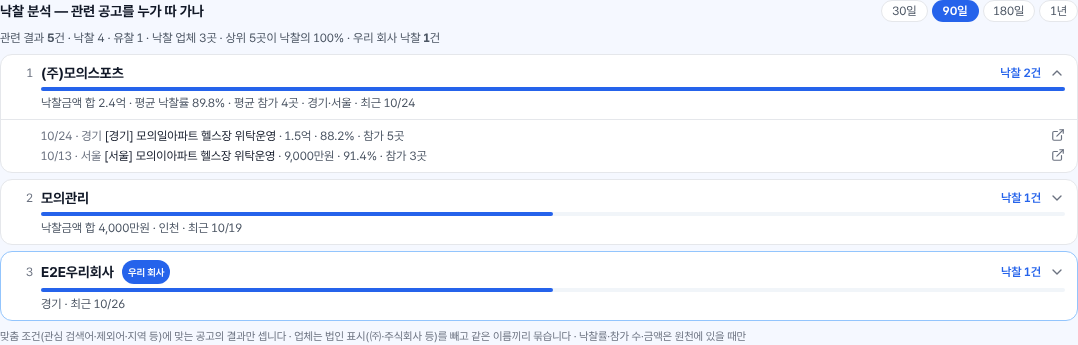
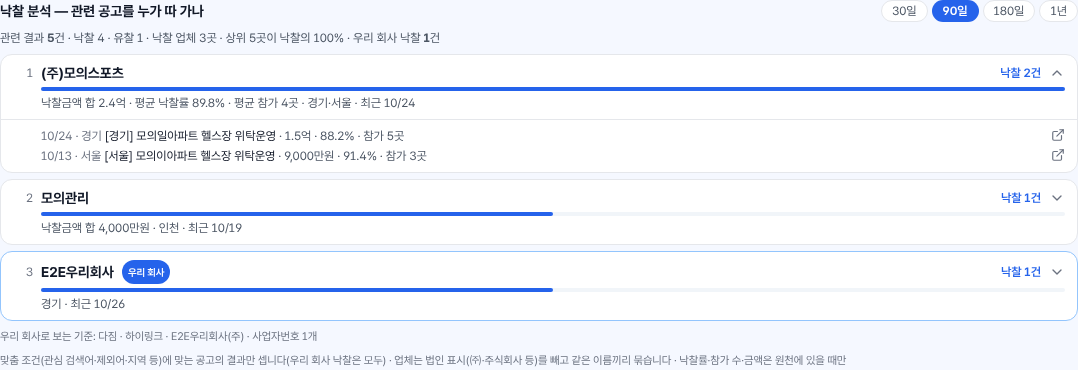
[배포확인요청][로컬요청] 227차 판정 빈 곳 3건(정보기기·보안관제 위탁 / 시설물조성 공사) + 낙찰 분석 하이링크 낙찰 0 — 우리 회사 판정 보완
로컬 10/28 11:15 '판정 빈 곳 3건(191차 규칙)' · 11:45 '하이링크 낙찰 0'.
- src/lib/sales/collectors/procurement.ts (matchFit):
  · 시설 낱말이 약한 낱말(WEAK)뿐이면 아파트·주민 맥락(APT_CONTEXT)이 있어야 다짐 — 위탁운영이 강한 낱말로 잡혀 '국회도서관 정보기기 위탁운영'이 맥락 확인 없이 다짐이 되던 빈틈
  · 맥락이 있어도 위탁 대상이 정보기기·전산·관제·유지관리·콜센터·서버·홈페이지(IT_TARGET)면 다짐 아님
  · BUILD_RE 에 조성·정비·포장·토목·세굴 · 업무 구분(분류)이 공사면 운영·위탁 낱말 없을 때 다짐 아님
  · 모두 dropped(까닭 문장)에 남아 refitNotices(수집기 실행·플랫폼 다시 판정)가 저장된 다짐 판정을 낮춤
- src/lib/sales/bidTasks.ts: ourIdentity 가 이름별 사업자번호·표시 이름·사업자번호 없는 회사 프로필을 돌려줌 · isOurs = 사업자번호가 우리 것이면 우리 회사, 이름이 같으면 우리 회사(단 그 이름의 사업자번호를 알고 있고 낙찰 사업자번호가 다르면 남의 회사) — 전에는 우리 사업자번호가 하나라도 있으면 사업자번호만 봐서 사업자번호를 안 넣은 회사 프로필의 낙찰을 못 찾음(입찰 결과 자동 판정도 같은 함수)
- src/lib/sales/awardStats.ts: 우리 회사 낙찰은 맞춤 조건 밖이어도 셈 · 우리 줄은 같은 이름의 남의 회사와 따로 묶음 · me(이름들·사업자번호 개수·사업자번호 없는 회사, 번호 값은 안 보냄)
- src/components/sales/AwardStats.tsx: '우리 회사로 보는 기준' 한 줄 + 사업자번호 없는 회사 안내 · 아래 설명에 '우리 회사 낙찰은 모두'
- 226차 후속 6448d55 바로잡음: 그 커밋 제목의 '낙찰 분석 탭 정렬 숨김'은 실제로는 2c39418(226차)에 들어 있었음
시험: tests/api/sales-fit-227 2 · sales-awards-497 +1(227차 우리 회사) · 영업 관련 API 148 통과 · E2E 낙찰 분석(기준 줄, 화면 579~580)·앱 영업 정리 · typecheck·lint·build

Claude-Session: https://claude.ai/code/session_016D6QaBbBuSZXAeHKp3DqaZ

diff --git a/src/lib/sales/awardStats.ts b/src/lib/sales/awardStats.ts
@@ -9,7 +9,7 @@ import { sidoIn } from './region';
 
 /**
  * 226차 #497 R21-4(21라인 레퍼런스 '낙찰 결과·낙찰가·경쟁업체 분석'): 관련 공고(맞춤 조건 — 업종 적합·관심 검색어·지역 등)의 낙찰 결과를 업체별로 묶음.
- * 업체 = 법인 표시(㈜·주식회사 등)를 뺀 이름 · 낙찰 건수·낙찰금액 합·평균 낙찰률·평균 참가 업체·주 지역·최근 낙찰 · 우리 회사(회사 정보 이름·사업자번호) · 유찰(낙찰자 없음).
+ * 업체 = 법인 표시(㈜·주식회사 등)를 뺀 이름 · 낙찰 건수·낙찰금액 합·평균 낙찰률·평균 참가 업체·주 지역·최근 낙찰 · 우리 회사(회사 정보 이름·사업자번호 — 맞춤 조건 밖 낙찰도 셈) · 유찰(낙찰자 없음).
  * 원천 = 수집한 결과(K-apt 입찰결과·나라장터 낙찰정보 등) — 원천에 없는 칸(낙찰률·참가 수·금액)은 비움(평균에서 뺌).
  */
 export const AWARD_DAYS = [30, 90, 180, 365] as const;
@@ -32,15 +32,15 @@ export async function awardStats(u: SessionUser, days0: number) {
   const groups = new Map<string, { names: Map<string, number>; latest: Map<string, string>; ours: boolean; recs: Rec[] }>();
   let total = 0, failed = 0;
   for (const { id, row: r } of rows) {
-    if (!passPrefs(r, p).ok) continue;
-    total++;
     const name = String(r.winner_name ?? r.award_company ?? r.successful_bidder ?? '').trim();
+    const mine = !!name && isOurs({ name, biz: r.winner_biz_no }, me);
+    if (!mine && !passPrefs(r, p).ok) continue; // 227차: 우리 회사 낙찰은 맞춤 조건(지역·검색어 등) 밖이어도 셈
+    total++;
     if (!name) { failed++; continue; }
-    const key = corpName(name) || name.toLowerCase();
-    const g = groups.get(key) ?? { names: new Map<string, number>(), latest: new Map<string, string>(), ours: false, recs: [] as Rec[] }; groups.set(key, g);
+    const key = (mine ? 'ours:' : '') + (corpName(name) || name.toLowerCase()); // 같은 이름의 다른 회사(사업자번호 다름)와 섞지 않음
+    const g = groups.get(key) ?? { names: new Map<string, number>(), latest: new Map<string, string>(), ours: mine, recs: [] as Rec[] }; groups.set(key, g);
     const day = String(r.award_date ?? r.posted_date ?? '').slice(0, 10);
     g.names.set(name, (g.names.get(name) ?? 0) + 1); if (day > (g.latest.get(name) ?? '')) g.latest.set(name, day);
-    if (!g.ours && isOurs({ name, biz: r.winner_biz_no }, me)) g.ours = true;
     const rate = num(r.winner_rate);
     g.recs.push({ id: String(r.id ?? id), title: String(r.title ?? '').trim(), date: day || null, amount: num(r.winner_amount ?? r.award_amount),
       rate: rate != null && rate <= 200 ? rate : null, bidders: num(r.bidders), region: regionOf(r), issuer: String(r.issuer ?? r.demand_agency ?? r.facility_name ?? '').trim() || null, url: String(r.source_url ?? '').trim() || null });
@@ -56,5 +56,6 @@ export async function awardStats(u: SessionUser, days0: number) {
   const awarded = total - failed;
   const shown = list.slice(0, 30); for (const x of list) if (x.ours && !shown.includes(x)) shown.push(x); // 우리 회사는 30위 밖이어도 보임
   return { days, since, total, awarded, failed, companies: list.length, ours: list.filter((x) => x.ours).reduce((s, x) => s + x.wins, 0),
-    top5Share: awarded ? Math.round((list.slice(0, 5).reduce((s, x) => s + x.wins, 0) / awarded) * 100) : 0, items: shown };
+    top5Share: awarded ? Math.round((list.slice(0, 5).reduce((s, x) => s + x.wins, 0) / awarded) * 100) : 0, items: shown,
+    me: { names: me.labels, biz: me.biz.size, noBiz: me.noBiz } }; // 화면 안내: 무엇을 우리 회사로 보는지(사업자번호 값은 안 보냄)
 }

diff --git a/src/components/sales/AwardStats.tsx b/src/components/sales/AwardStats.tsx
@@ -9,7 +9,7 @@ import { ErrorBox, Skeleton, cx } from '@/components/ui';
 
 type Rec = { id: string; title: string; date: string | null; amount: number | null; rate: number | null; bidders: number | null; region: string | null; issuer: string | null; url: string | null };
 type Co = { key: string; rank: number; name: string; ours: boolean; wins: number; amount: number | null; rate: number | null; bidders: number | null; regions: string[]; last: string | null; recent: Rec[] };
-type Stats = { days: number; total: number; awarded: number; failed: number; companies: number; ours: number; top5Share: number; items: Co[] };
+type Stats = { days: number; total: number; awarded: number; failed: number; companies: number; ours: number; top5Share: number; items: Co[]; me?: { names: string[]; biz: number; noBiz: string[] } };
 const C = '#2563EB'; // 영업 색(SalesSrc 와 같음)
 const DAYS: [string, string][] = [['30', '30일'], ['90', '90일'], ['180', '180일'], ['365', '1년']];
 const won = (n: number | null) => (n == null ? null : n >= 1e8 ? `${(n / 1e8).toFixed(1).replace(/\.0$/, '')}억` : n >= 1e4 ? `${Math.round(n / 1e4).toLocaleString('ko-KR')}만원` : `${n.toLocaleString('ko-KR')}원`);
@@ -43,7 +43,9 @@ export function AwardStats({ onOpen }: { onOpen: (id: string) => void }) {
                   {r.url && <a href={r.url} target="_blank" rel="noopener noreferrer" className="shrink-0 text-ink-3 hover:text-ink" aria-label="원문 보기"><ExternalLink className="size-3.5" /></a>}</li>))}
                 {x.wins > x.recent.length && <li className="text-ink-3">그 밖 {x.wins - x.recent.length}건</li>}</ul>}
             </li>); })}</ol>}
-        <p className="text-[11px] text-ink-3">맞춤 조건(관심 검색어·제외어·지역 등)에 맞는 공고의 결과만 셉니다 · 업체는 법인 표시(㈜·주식회사 등)를 빼고 같은 이름끼리 묶습니다 · 낙찰률·참가 수·금액은 원천에 있을 때만</p>
+        {data.me && <p className="text-[11px] text-ink-3" data-testid="award-me">우리 회사로 보는 기준: {data.me.names.length ? data.me.names.join(' · ') : '이름 없음'}{data.me.biz ? ` · 사업자번호 ${data.me.biz}개` : ''}
+          {data.me.noBiz.length > 0 && <span className="text-amber-700"> — {data.me.noBiz.map((n) => `'${n}'`).join(' · ')} 회사 정보에 사업자번호가 없어 이름으로만 찾습니다(관리 › 회사 정보·디자인에 넣으면 같은 이름의 다른 회사와 구분)</span>}</p>}
+        <p className="text-[11px] text-ink-3">맞춤 조건(관심 검색어·제외어·지역 등)에 맞는 공고의 결과만 셉니다(우리 회사 낙찰은 모두) · 업체는 법인 표시(㈜·주식회사 등)를 빼고 같은 이름끼리 묶습니다 · 낙찰률·참가 수·금액은 원천에 있을 때만</p>
       </>}
     </div>
   );

diff --git a/docs/handoff/LOCAL_LOG.md b/docs/handoff/LOCAL_LOG.md
@@ -609,6 +609,7 @@
 - 2026-10-28 [클라우드] [배포확인요청][로컬요청] 224차 — #457 관심 사업 검색어 추천: 영업 › 데이터 설정 › 맞춤 상자 안 '관심 검색어 추천' — 진행한 공고와 [대상 아님] 공고를 비교해 넣을 관심 검색어·넣을 제외어·뺄 관심 검색어를 냄([추천 받기]는 관리자, AI는 회사 월 AI 예산 안, 다 썼거나 실패하면 AI 없이 낱말 세기). 낱말마다 '진행 n · 대상 아님 m · 지난 30일 더 보일/가려질 공고 k'는 서버가 셈, 진행한 공고도 가리는 제외어는 '위험' 표시·미리 안 고름, [고른 것 반영] → 맞춤 칸에 들어감. 매달 1일 09시 뒤 AI 없이 정기 추천 → 추천이 있으면 관리자 알림(관심 검색어 추천 n개 · 놓친 공고 후보 m건). 마이그레이션 219(추가형). **로컬 요청:** ① 운영 배포·마이그레이션 219 적용 확인 ② 운영 영업 › 데이터 설정에서 [추천 받기] 한 번 눌러 추천 낱말·숫자가 말이 되는지(진행한 공고와 대상 아님 공고가 적으면 '더 정리하면 정확해집니다' 안내가 맞는지) 봐 주세요 — AI 비용이 1회 들어갑니다(회사 월 AI 예산 안). 고른 것 반영은 대표 확인 뒤에만.
 - 2026-10-28 [클라우드] [배포확인요청][로컬요청] 225차 — #210 승인함 첫 표시 느림(10/24 '390폭 약 14초'): 원인은 카드마다 '넘겨 보기' 사진을 모두 원본 크기로 바로 받고, 접힌 묶음(수정 요청·보류 등) 안 카드 사진까지 처음에 받던 것(서버 응답은 0.1초로 문제 아님). 사진은 화면 가까이 올 때 받고, 접힌 묶음 안 카드는 펼칠 때 시안을 그리게 고침(글·단추는 그대로). 시험 서버 재현(글 144건·사진 4장씩): 사진 472장·243MB → 20장·10.8MB, 내려받기 끝 6.5초 → 1.6초. 함께 흔들리던 시험 2개(메일 보관함·마감 선택 창 위치)를 '기다렸다가 확인'으로 고침. **로컬 요청:** 운영 승인함(/s/marketing/approvals)을 휴대폰 폭(390)으로 열어 ① 첫 표시까지 걸리는 시간 ② '수정 요청·보류' 묶음을 펼치면 사진이 그때 뜨는지 ③ 카드 넘겨 보기 둘째 장부터 넘길 때 사진이 뜨는지 봐 주세요.
 - 2026-10-28 [클라우드] [배포확인요청][로컬요청] 226차 — #497 R21-4 낙찰 분석(21라인 레퍼런스 '낙찰 결과·경쟁업체 분석'): 영업기회 › 입찰 칩 줄 끝 [낙찰 분석] — 관련 공고(맞춤 조건)의 낙찰 결과를 업체별로 묶어 낙찰 건수·금액 합·평균 낙찰률·평균 참가 업체·주 지역·최근 낙찰일, 펼치면 최근 낙찰 5건(누르면 공고 상세), 우리 회사(회사 정보 이름·사업자번호)는 '우리 회사' 표시, 기간 30일~1년. **로컬 요청:** 운영 영업기회 › 입찰 › [낙찰 분석]을 90일·1년으로 열어 ① 업체 묶음이 맞는지(같은 회사가 둘로 나뉘거나 다른 회사가 합쳐지지 않았는지) ② 낙찰금액·낙찰률이 원문과 맞는지 1~2건 ③ 우리 회사(다짐·하이링크) 낙찰이 '우리 회사'로 잡히는지 봐 주세요 — 자료가 0건이면 K-apt 입찰결과 수집기 상태도 함께 알려 주세요.
+- 2026-10-28 [클라우드] [배포확인요청][로컬요청] 227차 — 로컬 11:15 판정 빈 곳 3건 · 11:45 '하이링크 낙찰 0': ① 국회도서관 정보기기 위탁운영(R26BK01791097-000)·보안관제 위탁운영(R26BD00288066) → 대상 아님(시설 낱말이 '도서관'뿐이고 아파트·주민 맥락 없음 / 맥락이 있어도 위탁 대상이 정보기기·관제·유지관리면 다짐 아님) ② 의성위천파크골프장시설물조성(세굴방지공)(R26BK01792413-000) → 대상 아님(공사 낱말에 조성·정비·포장·토목·세굴 추가 + 업무 구분 공사) ③ 작은도서관·국민체육센터·파크골프장 위탁운영은 그대로 다짐 ④ 낙찰 분석: 우리 회사 낙찰은 맞춤 조건 밖이어도 셈 + 사업자번호 없는 회사 정보는 이름으로 찾음(같은 이름·다른 사업자번호는 남의 회사) + 화면 아래 '우리 회사로 보는 기준' 한 줄. **로컬 요청:** 배포 뒤 ① 플랫폼 운영자 계정으로 다시 판정(POST /api/platform/sales-notices {"refit":true})을 한 번 돌리거나 다음 K-apt 입찰공고 수집기 실행 요약('다시 판정으로 내림 n건·사업 바꿈 n건')을 보고 숫자를 알려 주시고, 세 번호를 공고 조회(GET …?no=번호)로 열어 '지금 규칙'이 관련 아님(까닭 문장)인지 봐 주세요 ② 영업기회 › 입찰 › [낙찰 분석] 아래 '우리 회사로 보는 기준'에 하이링크가 보이는지·사업자번호 없는 회사 안내가 뜨는지·1년 보기에서 하이링크 낙찰이 잡히는지 — 여전히 0이면 하이링크가 실제로 낙찰받은 공고 번호 1건을 알려 주세요.
 - 2026-10-26 [클라우드] [배포확인요청] 176차 — 171·173차 CI 빨간불 원인 2가지 바로잡음: ① 캘린더 종일 칸 설정이 창 폭이 640 을 넘나들 때 PC 값(꺼짐)을 휴대폰 키에 덮어쓰던 실제 버그(휴대폰 보기 종일 줄이 꺼진 채 시작) → 사람이 바꿀 때만 저장·폭 바뀌면 다시 읽음 ② 실기기 83 시트 버튼 줄 1px 여유. 로컬 확인 요청: 없음(운영 화면 변화는 'PC 창을 좁혔다 넓혀도 휴대폰 종일 줄 설정이 안 꺼짐'뿐). CI 결과는 클라우드가 확인.
 - 2026-10-25 [클라우드] [배포확인요청] 149차 — #599 새 고객사 시뮬레이션(시험 서버 E2E: 가입 → 온보딩 → 첫 화면 → 공간 켜기 → 데이터 설정 → 마케팅 → 자동 제작 → 사용량 → 알림 → API 8개, 캡처 281~295) 명세 §3 결과: 내부 이름 0건 · 키 없는 수집기 7개 = '신청 필요'+[방법 보기] · '채널 연결 3단계' · 첫날 알림 0건 · 사용량 원화만. #602 공통 함수 customerScope(seesInternals = 슈퍼관리자 또는 내부 테넌트): 수집기·사용량·자동 제작·마케팅 홈·AI 예산 응답에서 원인·원가·달러·모델·외부 서비스 이름·원천 주소·공용 실행 기록 제거 + 고객 문구 사전 + 금지 낱말 자동 검사(API 5/5·E2E 발견 0건). P0 버그 수정: 새 회사 첫 로그인·온보딩 끝 직후 흰 화면+로고(수화 오류로 실행 애니메이션 덮개가 안 걷힘) → Modal 마운트 뒤 포털·IntroGuard·CSS 안전장치. 마이그레이션 없음(200 그대로). 로컬 요청: ① 운영에서 새 회사 가입(대표 결정 범위 안에서) → 확인 링크 → 첫 화면이 흰 화면 없이 뜨는지, 온보딩 [완료] 직후도 ② 고객사 계정으로 영업 › 데이터 설정(상태 칩 4가지·[방법 보기]·키 이름/주소/오류 원문 없음)·마케팅 › 자동 제작(글 모델 등급 이름만)·관리 › 사용량(원화·%·횟수만) ③ 내부 테넌트(우리 회사)에서는 예전처럼 전부 보이는지 ④ 공개 요금표(/api/public/ai-plans·소개 사이트)의 단가 표시는 그대로 두었음 — 대표 결정 필요하면 알려 주세요.
 - 2026-10-25 [클라우드] [배포확인요청] 148차 — #592 ② 휴대폰 캘린더 주 보기 밀도(명세 §2): 시간 칸 주 40/3일 48/일 64 → 한 화면 약 15시간, 블록 11px 중간 굵기·줄 수 블록 높이만큼, 좁은 블록 앞머리 [태그] 떼기(부재 종류 유지), 종일 줄 기본 켬(2줄 + '+n개' → 그날 목록), 미팅 단추 둥근 48px·아래로 밀면 숨김, 휴대폰 머리줄 한 줄(월▾·보기 전환·‹›·오늘·+). 견적서 공급자 긴 주소 두 줄(로컬 15:45). 마이그레이션 없음(200 그대로). 로컬 요청: ① 대표 휴대폰(390~412px) 주 보기 — 08~22시가 한 화면에, [다짐 문의] 업무가 내용부터 2줄로, 종일 칩이 날짜 머리 아래 바로, + 단추가 칸을 안 가리고 아래로 밀면 숨는지(명세 §3 2~5) ② 3일·일 보기 칸 높이·일 보기는 제목 그대로 ③ 견적서 미리보기(hilink) 공급자 주소 두 줄 ④ 명세 §3 1·6(구글 11건·중복 정리)은 가져오기를 대표가 취소(#604)해 하지 않음 — 워크인에 직접 넣은 일정만 보임.

diff --git a/TEST_REPORT.md b/TEST_REPORT.md
@@ -1,7 +1,9 @@
 # 시험 보고서
 
 최종 실행: 2026-10-13 (UTC) · 클라우드 개발 환경 (Node 22, PostgreSQL 16, Chromium 141)
-요약 (2026-10-28 226차: #497 R21-4 낙찰 분석(21라인 레퍼런스 '낙찰 결과·낙찰가·경쟁업체 분석'): 영업기회 › 입찰 칩 줄에 [낙찰 분석] — 관련 공고(맞춤 조건: 업종 적합·관심 검색어·제외어·지역 등)의 낙찰 결과를 업체별로 묶음(법인 표시 ㈜·주식회사 등을 빼고 같은 이름끼리, 표시 이름은 가장 많이 쓴·최근 이름) · 업체마다 낙찰 건수·막대·낙찰금액 합·평균 낙찰률·평균 참가 업체·주 지역 2곳·최근 낙찰일(원천에 없는 칸은 평균에서 뺌) · 펼치면 최근 낙찰 5건(누르면 공고 상세, 원문 링크) · 우리 회사(회사 정보 이름·사업자번호) 파란 '우리 회사' 표시(30위 밖이어도 보임) · 머리 줄 관련 결과·낙찰·유찰·업체 수·상위 5곳 비중·우리 회사 낙찰 · 기간 30일·90일·180일·1년(주소 ?ad=) · 결과가 없으면 수집기 안내 · 영업 공간 밖 404·입찰 안 쓰는 회사 403 · 이 탭에서는 정렬 숨김
+요약 (2026-10-28 227차: 로컬 10/28 11:15 '판정 빈 곳 3건' · 11:45 '하이링크 낙찰 0' 반영 — ① 업종 판정(191차 규칙 보강): 시설 낱말이 약한 낱말(도서관·카페·골프 등)뿐이면 아파트·주민 맥락이 있어야 다짐, 맥락이 있어도 위탁 대상이 정보기기·전산·관제·유지관리·콜센터·서버·홈페이지면 다짐 아님(국회도서관 정보기기 위탁운영·보안관제 위탁운영 → 대상 아님 / 작은도서관·국민체육센터·파크골프장 위탁운영은 그대로 다짐) · 공사 낱말에 조성·정비·포장·토목·세굴 추가 + 업무 구분(분류)이 공사면 운영·위탁 낱말이 없을 때 다짐 아님(파크골프장 시설물조성(세굴방지공) → 대상 아님) · 이미 저장된 공고는 다음 K-apt 수집기 실행이나 플랫폼 운영 다시 판정(POST /api/platform/sales-notices)이 판정을 낮추고 까닭 문장을 남김 ② 낙찰 분석 '우리 회사': 우리 회사 낙찰은 맞춤 조건(지역·검색어·업종) 밖이어도 셈 · 회사 정보에 사업자번호가 없는 회사는 이름으로 찾음(전에는 우리 사업자번호가 하나라도 있으면 사업자번호만 봐서 못 찾음) · 이름이 같아도 그 이름의 사업자번호를 알고 있고 낙찰 사업자번호가 다르면 남의 회사로 따로 묶음 — 입찰 결과 자동 판정(낙찰/미낙찰)도 같은 규칙 · 화면 아래 '우리 회사로 보는 기준'(이름들 · 사업자번호 개수 · 사업자번호 없는 회사 안내, 번호 값은 안 보냄) ③ 226차 후속 자동 검사 1582·1584·1585번 고침(6448d55: 칩 목록 시험에 [낙찰 분석], 정기 추천 시험이 실제 수집 원천에 닿지 않게) — 6448d55 커밋 제목의 '낙찰 분석 탭 정렬 숨김'은 실제로는 226차 2c39418에 들어 있었음(바로잡음)
+시험: API sales-fit-227 2건(지금 규칙 조회 · 다시 판정 낮춤 3·바뀜 0·올림 0 → 두 번째 0) · sales-awards-497 4건(227차 우리 회사: 사업자번호 없는 회사 이름으로·업종 무관 제목·지역 조건 밖·같은 이름 다른 사업자번호) · sales-bid-split 포함 영업 관련 API 148건 통과 · E2E '226차 낙찰 분석'(기준 안내 줄, 화면 579~580 새로 찍음)·'앱 영업 정리' · typecheck·lint·build
+확인 못함: 운영 공고에 다시 판정을 돌린 실제 숫자(클라우드는 운영 자료를 못 봄) · 보안관제 공고(R26BD00288066)의 제목 앞부분(로컬 메시지에 '…'로 줄어 있어 '국회도서관 …'으로 가정해 시험) · 운영 하이링크 회사 정보에 사업자번호가 있는지 · 하이링크 낙찰이 수집 원천(K-apt·나라장터)에 실제로 있는지) · 앞선 요약 (2026-10-28 226차: #497 R21-4 낙찰 분석(21라인 레퍼런스 '낙찰 결과·낙찰가·경쟁업체 분석'): 영업기회 › 입찰 칩 줄에 [낙찰 분석] — 관련 공고(맞춤 조건: 업종 적합·관심 검색어·제외어·지역 등)의 낙찰 결과를 업체별로 묶음(법인 표시 ㈜·주식회사 등을 빼고 같은 이름끼리, 표시 이름은 가장 많이 쓴·최근 이름) · 업체마다 낙찰 건수·막대·낙찰금액 합·평균 낙찰률·평균 참가 업체·주 지역 2곳·최근 낙찰일(원천에 없는 칸은 평균에서 뺌) · 펼치면 최근 낙찰 5건(누르면 공고 상세, 원문 링크) · 우리 회사(회사 정보 이름·사업자번호) 파란 '우리 회사' 표시(30위 밖이어도 보임) · 머리 줄 관련 결과·낙찰·유찰·업체 수·상위 5곳 비중·우리 회사 낙찰 · 기간 30일·90일·180일·1년(주소 ?ad=) · 결과가 없으면 수집기 안내 · 영업 공간 밖 404·입찰 안 쓰는 회사 403 · 이 탭에서는 정렬 숨김
 시험: API sales-awards-497 3건(업체 묶음·금액·낙찰률·참가·지역·최근 순·우리 회사·유찰·업종 무관 제외 / 기간·제외어·이상한 기간 / 권한) · E2E '226차 #497 낙찰 분석'(화면 579~580, 390 폭 넘침 없음, 최근 낙찰 → 공고 상세) · typecheck·lint·build
 확인 못함: 운영 실제 낙찰 자료로 본 화면(K-apt 입찰결과·나라장터 낙찰정보가 운영에서 얼마나 쌓였는지) · 업체 이름이 법인 표시 말고 다르게 적힌 경우(예: 지점명·띄어쓰기 외 표기)는 다른 업체로 셈) · 앞선 요약 (2026-10-28 225차: #210 승인함 첫 표시 느림(로컬 10/24 '390폭 약 14초'): 원인 = 카드마다 '넘겨 보기' 사진 묶음이 모든 장을 원본 크기로 바로 받고(나중에 받기 없음), 접힌 묶음(수정 요청·보류·예정 지남·초안 보관·마감 지남) 안 카드 사진까지 처음에 받음 — 서버 응답은 0.1초로 문제 아님 · 고침: ① 넘겨 보기 사진은 화면 가까이 올 때 받기(영상은 첫 장 말고는 누를 때) ② 접힌 묶음 안 카드는 펼칠 때 시안을 그림(글·단추는 그대로, 한 번 펼치면 계속) ③ 블로그 미리보기 본문 사진도 나중에 받기 · 시험 서버 재현(글 144건·사진 4장씩, 390폭): 원본 사진 472장 → 20장 · 영상 6 → 0 · 243MB → 10.8MB · 화면 요소 7,152 → 3,697 · 내려받기 끝 6.5초 → 1.6초 · 함께: 흔들리는 시험 2개 고침 — 메일 보관함(자동 검사 1576번: 발송 실패 뒤 계정 오류 문구가 적히기 전에 읽음 + 중간 실패 때 시험 비밀번호를 되돌리지 않아 뒤 시험 2개 연쇄 실패) · V14 45 마감 선택 창(1575번: 창이 떠오르는 0.16초 움직임 중에 위치를 재 2px 겹침)
 시험: 재현 측정(고치기 전·후 같은 자료) · E2E 승인함 관련 6단계(V41 4-2 마케팅·V14 45·#516·#544·#177·#235 ⓑ) · API mail-outbox · typecheck·lint·build
